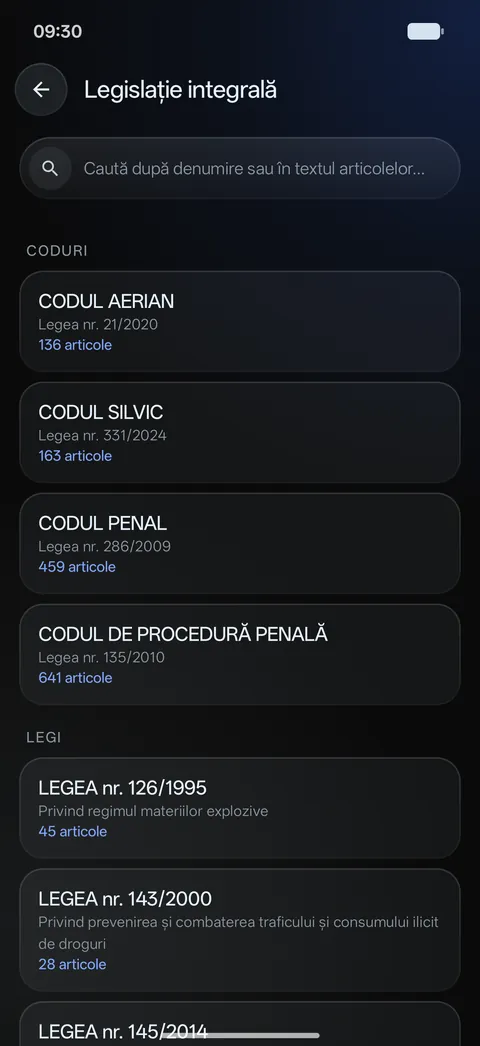
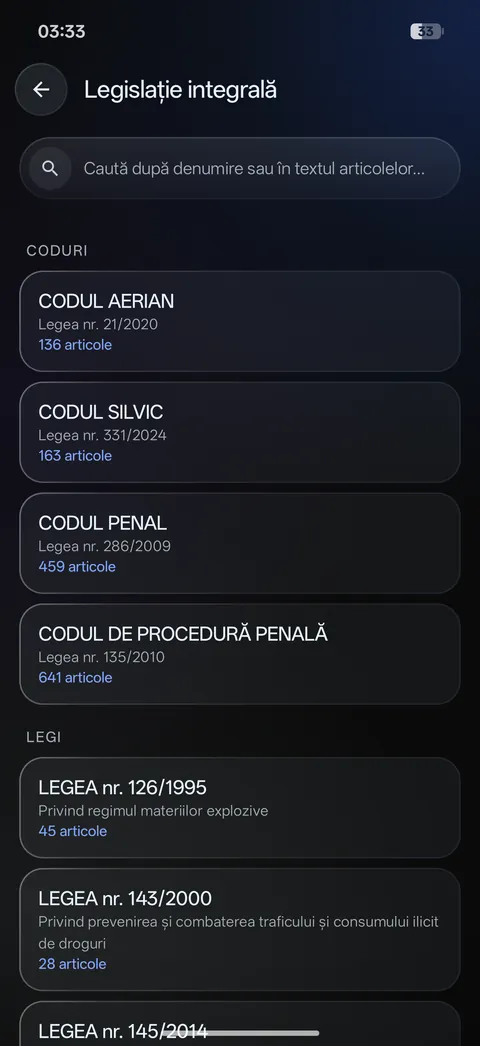
feat: capturi noi din aplicație și funcțiile noi — raportul PDF lunar, soldul explicat, programul fracționat, ghidul la câini pe teren, 33 de acte integrale
- Shiftr: titlul „Orele se calculează singure.”, secțiunea Raport PDF lunar (cu raportul real),
  „Cum se calculează soldul”, editorul cu program fracționat, rânduri noi în tabelul Gratuit/PRO.
- Capturi refăcute (ora 03:33, baterie 33%): Acasă, Legi speciale, Regim rutier (căutarea pe secțiune,
  fișa), Text integral, ghidul Câini periculoși (rase și Control pe teren).
- Legislație integrală: 33 de acte (HG 643/2020, HG 859/2021, HG 1102/2014, HG 146/2026, Legea 203/2018).

diff --git a/app/shiftr/page.jsx b/app/shiftr/page.jsx
@@ -19,12 +19,15 @@ const TYPES = [
 const ROWS = [
   ["Calendarul de ture și șabloanele", "y", "y"],
   ["Toate tipurile de tură și misiunile speciale", "y", "y"],
+  ["Program fracționat, în două intervale", "y", "y"],
   ["Norma lunii, cu sărbătorile legale", "y", "y"],
   ["Orele lucrate față de normă", "y", "y"],
   ["Partajarea calendarului cu colegii", "y", "y"],
   ["Soldul de ore suplimentare", "n", "p"],
   ["Recuperările scăzute din sold", "n", "p"],
   ["Ore adăugate manual din altă aplicație", "n", "p"],
+  ["Raportul PDF lunar", "y", "y"],
+  ["Soldul și recuperările în raportul PDF", "n", "p"],
   ["Concedii și medicale calculate automat", "n", "p"],
 ];
 const MARK = { y: ["Da", "inclus"], p: ["PRO", "inclus în PRO"], n: ["Nu", "nu e inclus"] };
@@ -39,14 +42,14 @@ export default function ShiftrPage() {
             <div className="copy">
               <ol className="crumbs" aria-label="Unde ești"><li><Link href="/">Acasă</Link></li><li aria-current="page">Shiftr</li></ol>
               <p className="eyebrow" data-r="">Shiftr · planificatorul de ture</p>
-              <h1 className="h1" data-r="">Luna se adună <span className="soft">singură.</span></h1>
+              <h1 className="h1" data-r="">Orele se calculează <span className="soft">singure.</span></h1>
               <p className="lead" data-r="">Notezi turele, iar Shiftr calculează norma, orele suplimentare și soldul după recuperări. Datele rămân pe telefon.</p>
               <div className="btns" data-r=""><MainCta /><a className="btn btn--glass" href="#calcul">Cum calculează</a></div>
             </div>
             <Stage
               front="app-shiftr-a"
               back="app-shiftr-editare"
-              backAlt="Foaia Modifică tura din Shiftr: șabloanele Zi (06:00–18:00) și Noapte (18:00–06:00), ora de început și de sfârșit, culoarea și denumirea turei."
+              backAlt="Foaia Modifică tura din Shiftr pentru 20 noiembrie: șabloanele Zi (06:00–18:00) și Noapte (18:00–06:00), apoi programul fracționat 08:00–12:00 și al doilea interval 18:00–22:00, durata 8h și alarma pusă la 07:00."
               backRight
               priority
               frontAlt="Calendarul Shiftr pentru noiembrie 2026: ture de zi (Z) și de noapte (N), zile libere, două zile de program, iar dedesubt 172h lucrate din 160h și soldul de ore suplimentare +12h."
@@ -63,7 +66,7 @@ export default function ShiftrPage() {
             <div className="sec__head">
               <p className="eyebrow" data-r="">Turele</p>
               <h2 id="types-title" className="h2" data-r="">Orice program, o literă.</h2>
-              <p className="lead" data-r="">Zi, noapte, cele trei schimburi, concediu, recuperare, liber și misiuni speciale. Șabloanele (ex. Zi 06:00–18:00, Noapte 18:00–06:00) se aplică dintr-o atingere.</p>
+              <p className="lead" data-r="">Zi, noapte, cele trei schimburi, concediu, recuperare, liber și misiuni speciale. Șabloanele (ex. Zi 06:00–18:00, Noapte 18:00–06:00) se aplică dintr-o atingere, iar o zi poate avea și program fracționat, în două intervale.</p>
             </div>
             <ul className="mods" style={{ marginTop: 0 }}>
               {TYPES.map(([k, t, c, d], i) => (
@@ -103,6 +106,45 @@ export default function ShiftrPage() {
               </div>
               <p className="fine">Patru ecrane reale din aplicație, unul pentru fiecare combinație. Calculele Shiftr sunt orientative.</p>
             </div>
+          </div>
+        </section>
+
+        <section className="sec" id="pdf" aria-labelledby="pdf-title">
+          <div className="wrap">
+            <div className="sec__head">
+              <p className="eyebrow" data-r="">Nou · raportul lunar</p>
+              <h2 id="pdf-title" className="h2" data-r="">Luna întreagă, <span className="soft">într-un PDF.</span></h2>
+              <p className="lead" data-r="">Un buton deasupra calendarului: Shiftr scoate evidența lunii, gata de printat sau de trimis. Ziua, tura, intervalele lucrate și orele, cu turele de noapte împărțite corect pe cele două zile, weekendurile și sărbătorile marcate, legenda și observațiile.</p>
+            </div>
+            <figure className="glass" data-r="scale" style={{ margin: "36px auto 0", maxWidth: 1100, padding: 10, borderRadius: 28 }}>
+              <img src="/assets/img/screens/app-shiftr-pdf-1400.webp" srcSet="/assets/img/screens/app-shiftr-pdf-800.webp 800w, /assets/img/screens/app-shiftr-pdf-1400.webp 1400w, /assets/img/screens/app-shiftr-pdf-2000.webp 2000w" sizes="(min-width: 1180px) 1080px, 94vw" width="2000" height="1413" alt="Raportul PDF Evidența turelor pentru noiembrie 2026, generat de Shiftr: norma lunii 160h, ore lucrate 164h, ore suplimentare 4h, soldul la zi 16h, ore de noapte 56h, weekend și sărbători 60h, recuperări 8h; tabelul pe zile cu tura (Z, N, L, R, P), intervalele lucrate și orele, legenda turelor și observațiile (20.11 program fracționat, 30.11 Sfântul Andrei)." loading="lazy" decoding="async" style={{ display: "block", width: "100%", height: "auto", borderRadius: 20 }} />
+            </figure>
+            <ul className="checks" data-r="" style={{ maxWidth: 820, margin: "28px auto 0" }}>
+              <li><b>Ore pe fiecare zi.</b> Doar ce cade între 00:00 și 24:00, ca pe foaia de pontaj.</li>
+              <li><b>Norma, noaptea, weekendul, sărbătorile.</b> Totalurile lunii, sus, pe carduri.</li>
+              <li><b>Soldul și recuperările</b> apar în raport în PRO.</li>
+            </ul>
+          </div>
+        </section>
+
+        <section className="sec sec--tight" aria-labelledby="sold-title">
+          <div className="wrap split">
+            <div className="copy">
+              <p className="eyebrow" data-r="">Soldul, explicat</p>
+              <h2 id="sold-title" className="h2" data-r="">Știi de unde vine <span className="soft">fiecare oră.</span></h2>
+              <p className="lead" data-r="">„Cum se calculează soldul” arată pe pași regula din Codul muncii: ce lucrezi peste normă intră în sold, se recuperează în 90 de zile cu timp liber plătit, iar ce nu recuperezi se plătește cu spor. Plus soldul tău, lună cu lună, și următorul termen de recuperare.</p>
+              <ul className="checks" data-r="">
+                <li><b>Art. 120–123 Codul muncii,</b> aplicate pe turele tale.</li>
+                <li><b>Termenul de 90 de zile</b> pentru fiecare oră, nu pentru toată luna.</li>
+              </ul>
+            </div>
+            <Stage
+              front="app-shiftr-sold"
+              frontAlt="Foaia Cum se calculează soldul din Shiftr: patru pași — pornești de la soldul adus, ce lucrezi peste normă intră în sold, le recuperezi în 90 de zile, ce nu recuperezi se plătește — apoi soldul tău: ore suplimentare noi +16h, recuperări efective 0h, sold +16h și următorul termen de recuperare, 28 decembrie 2026."
+              back="app-shiftr-a"
+              backAlt=""
+              backRight
+            />
           </div>
         </section>
 

diff --git a/app/page.jsx b/app/page.jsx
@@ -4,7 +4,7 @@ import Laurels from "@/components/Laurels";
 import PageEffects from "@/components/PageEffects";
 import { Phone, MainCta, PlayBanner } from "@/components/ui";
 
-const DESC = "JAC – Legislație și Ture: 33 de module offline, peste 3.500 de fișe, 28 de acte integrale, 6 ghiduri vizuale cu fotografii, ghidul operativ și planificatorul de ture Shiftr. Aplicație Android independentă.";
+const DESC = "JAC – Legislație și Ture: 33 de module offline, peste 3.500 de fișe, 33 de acte integrale, 6 ghiduri vizuale cu fotografii, ghidul operativ și planificatorul de ture Shiftr. Aplicație Android independentă.";
 
 export const metadata = {
   title: "JAC – Legislație și Ture | Unicul instrument legislativ care le are pe toate",
@@ -37,7 +37,7 @@ const LD = {
 /* The hero deck: six real screens. One stands at the centre for a second, then they all slide one place right to
    left (the one on the right comes to the centre, the centre one goes left), the way the old home page did it. */
 const DECK = ["app-acasa", "app-rutier-module", "app-penal-module", "app-shiftr-a", "app-ghid-capitole", "app-ghid-drone", "app-text-integral"];
-const DECK_ALT = "Ecranul Acasă din JAC: salutul „Salutare, ticuv” cu avatarul PRO încadrat de lauri aurii, cardul Programul tău („Liber azi. De Zi duminică.”, 160h din 160h), căutarea în baza locală de 3.542 de articole offline și plăcile Cod penal, Legi speciale, Regim rutier și Text integral.";
+const DECK_ALT = "Ecranul Acasă din JAC: salutul „Bună seara, ticuv” cu avatarul încadrat de lauri aurii, cardul Programul tău („Liber azi. De Zi mâine.”, tura de joi 06:00–18:00 și 164h lucrate), căutarea în baza locală de 3.542 de articole offline și plăcile Cod penal, Legi speciale, Regim rutier și Text integral";
 const deckPos = (i, n) => (i === 0 ? "center" : i === 1 ? "right" : i === n - 1 ? "left" : i === n - 2 ? "out" : "back");
 
 export default function HomePage() {
@@ -99,7 +99,7 @@ export default function HomePage() {
               <article className="chap__item" aria-labelledby="ch-fise">
                 <h2 id="ch-fise" className="chap__num"><span className="sr-only">Fișe offline: </span><span className="chap__mask"><span className="mono">3.542</span></span></h2>
                 <p className="chap__text">De fișe în telefon, fără semnal: Codul penal, CPP, rutierul și 19 legi speciale. Scrii fapta și primești încadrarea exactă.</p>
-                <p className="chap__meta mono">33 de module · 28 de acte integrale</p>
+                <p className="chap__meta mono">33 de module · 33 de acte integrale</p>
                 <Phone name="app-legi-speciale" className="chap__phone-m" sizes="70vw" alt="Lista Legi speciale din JAC: 19 pachete legislative și 1.161 de fapte, de la Legea 61/1991 (ordine și liniște publică) la Domeniul silvic (170 de fapte)." />
               </article>
               <article className="chap__item" aria-labelledby="ch-shiftr" data-shiftr2="" data-norm="160">
@@ -279,7 +279,7 @@ export default function HomePage() {
                     <tr><th scope="row">Celelalte 11 legi speciale<small>arme, droguri, pirotehnice, silvic, drone, pescuit, vânătoare, pază, 112 și altele</small></th><td className="cmp__no">—</td><td className="cmp__pro">Da</td></tr>
                     <tr><th scope="row">Codul penal, CPP și procedura operativă<small>4 module, 1.369 de articole</small></th><td className="cmp__no">—</td><td className="cmp__pro">Da</td></tr>
                     <tr><th scope="row">Regim rutier, cu amenda calculată<small>10 module, 1.011 fapte și proceduri</small></th><td className="cmp__no">—</td><td className="cmp__pro">Da</td></tr>
-                    <tr><th scope="row">Legislație integrală<small>28 de acte, în text complet</small></th><td>Da</td><td className="cmp__pro">Da</td></tr>
+                    <tr><th scope="row">Legislație integrală<small>33 de acte, în text complet</small></th><td>Da</td><td className="cmp__pro">Da</td></tr>
                     <tr><th scope="row">Căutare în toate fișele<small>din ecranul Acasă</small></th><td className="cmp__no">—</td><td className="cmp__pro">Da</td></tr>
                     <tr><th scope="row">Favorite</th><td>până la 5</td><td className="cmp__pro">nelimitat</td></tr>
                     <tr className="cmp__group"><th scope="rowgroup" colSpan="3">Pe teren</th></tr>

diff --git a/app/legislatie-penala/page.jsx b/app/legislatie-penala/page.jsx
@@ -5,7 +5,7 @@ import PageEffects from "@/components/PageEffects";
 import { FACTS as F, Stage, Chip, MainCta, CtaBand, Disclaimer } from "@/components/ui";
 
 export const metadata = {
-  title: "Codul penal, CPP integral și 28 de acte în text complet | JAC",
+  title: "Codul penal, CPP integral și 33 de acte în text complet | JAC",
   description: "Legislația penală din JAC, offline: 4 module și 1.369 de articole. Infracțiunile cu pedeapsa, competența și măsurile, partea generală, procedura operativă și Codul de procedură penală integral. Plus 28 de coduri și acte normative în text complet.",
   alternates: { canonical: "https://aplicatiajac.ro/legislatie-penala/" },
   openGraph: { title: "Codul penal și CPP integral în JAC", url: "https://aplicatiajac.ro/legislatie-penala/", siteName: "JAC", locale: "ro_RO", type: "website", images: [{ url: "https://aplicatiajac.ro/assets/img/og-jac-2026-11.jpg", width: 1200, height: 630 }] },
@@ -18,7 +18,7 @@ const ACTS = [
       ["Legea nr. 4/2008", "competiții și jocuri sportive"], ["Legea nr. 54/2012", "activitățile de picnic"], ["Legea nr. 60/1991", "adunările publice"],
       ["Legea nr. 61/1991", "ordinea și liniștea publică"], ["Legea nr. 126/1995", "regimul materiilor explozive"], ["Legea nr. 143/2000", "traficul și consumul de droguri"],
       ["Legea nr. 145/2014", "piața produselor agricole"], ["Legea nr. 171/2010", "contravențiile silvice"], ["Legea nr. 176/2024", "pescuitul și resursa acvatică vie"],
-      ["Legea nr. 194/2011", "produse cu efecte psihoactive"], ["Legea nr. 217/2003", "violența domestică"], ["Legea nr. 295/2004", "regimul armelor și munițiilor"],
+      ["Legea nr. 194/2011", "produse cu efecte psihoactive"], ["Legea nr. 203/2018", "plata amenzilor contravenționale"], ["Legea nr. 217/2003", "violența domestică"], ["Legea nr. 295/2004", "regimul armelor și munițiilor"],
       ["Legea nr. 333/2003", "paza obiectivelor, bunurilor și valorilor"], ["Legea nr. 349/2002", "consumul produselor din tutun"], ["Legea nr. 365/2002", "comerțul electronic"],
       ["Legea nr. 407/2006", "vânătoarea și fondul cinegetic"],
     ],
@@ -27,7 +27,7 @@ const ACTS = [
     g: "Ordonanțe și hotărâri", items: [
       ["OUG nr. 195/2002", "circulația pe drumurile publice"], ["HG nr. 1391/2006", "regulamentul OUG 195/2002"], ["OG nr. 2/2001", "regimul juridic al contravențiilor"],
       ["OUG nr. 34/2008", "sistemul 112"], ["OUG nr. 55/2002", "câinii periculoși sau agresivi"], ["OUG nr. 97/2005", "evidența și actele de identitate"],
-      ["HG nr. 11/2018", "hotărârea de aprobare a normelor Legii 295/2004"], ["Normele metodologice", "de aplicare a Legii 295/2004 (HG 11/2018)"],
+      ["HG nr. 11/2018", "hotărârea de aprobare a normelor Legii 295/2004"], ["HG nr. 643/2020", "dronele (regulamentele UE 2019/945 și 2019/947)"], ["HG nr. 859/2021", "autorizarea zborurilor în spațiul aerian"], ["HG nr. 1102/2014", "articolele pirotehnice"], ["HG nr. 146/2026", "salariul minim (punctul-amendă)"], ["Normele metodologice", "de aplicare a Legii 295/2004 (HG 11/2018)"],
     ],
   },
 ];
@@ -114,7 +114,7 @@ export default function PenalPage() {
               </div>
               <Stage
                 front="app-text-integral"
-                frontAlt="Legislația integrală din JAC: grupa Coduri, cu Codul aerian (Legea 21/2020, 136 de articole), Codul silvic (Legea 331/2024, 163 de articole), Codul penal (Legea 286/2009, 459 de articole) și Codul de procedură penală (Legea 135/2010)."
+                frontAlt="Legislația integrală din JAC: grupa Coduri, cu Codul aerian (Legea 21/2020, 136 de articole), Codul silvic (Legea 331/2024, 163 de articole), Codul penal (Legea 286/2009, 459 de articole), Codul de procedură penală (Legea 135/2010, 641 de articole), apoi legile, de la Legea 126/1995 și Codul de procedură penală (Legea 135/2010)."
               >
                 <Chip pos="tl" tone="blue" k="Text integral">{total} de acte</Chip>
                 <Chip pos="br" k="Căutare">în articole</Chip>

diff --git a/app/ghiduri-vizuale/page.jsx b/app/ghiduri-vizuale/page.jsx
@@ -45,11 +45,11 @@ const GUIDES = [
     chips: [["tl", "red", "Interzis la intrare", "Pirotehnice"], ["br", "", "La poartă", "8 pași"]],
   },
   {
-    id: "caini", tag: "Câini periculoși", law: "OUG 55/2002", shot: "app-ghid-caini", back: "app-ghid-caini-2", backAlt: "Catalogul vizual Câini periculoși din JAC, categoria a II-a: portretul unui Rottweiler din profil și din față, gabaritul 40–50 kg, 56–68 cm, și trăsăturile de recunoaștere.",
-    t: "Câini periculoși, pe rase.",
-    p: "Catalog vizual pe cele două categorii din OUG 55/2002: 3 rase în categoria I și 9 în categoria a II-a, fiecare cu portret uniform din profil și din față, gabaritul și trăsăturile de recunoaștere. Plus obligațiile deținătorului și sancțiunile.",
-    list: ["Categoria I, regim strict: 3 rase", "Categoria a II-a: 9 rase", "Obligații: sterilizare, asigurare RC, plăcuța „Câine periculos”", "Metișii: asimilarea morfologică, pe trăsăturile dominante"],
-    alt: "Catalogul vizual Câini periculoși din JAC (OUG 55/2002): portretul din profil și din față al unui Pit Bull, categoria I, cu gabaritul, trăsăturile de recunoaștere și nota despre asimilarea morfologică a metișilor.",
+    id: "caini", tag: "Câini periculoși", law: "OUG 55/2002", shot: "app-ghid-caini", back: "app-ghid-caini-2", backAlt: "Ghidul Câini periculoși din JAC, tab-ul Control pe teren: situația „Câine din listă, la plimbare” în cinci pași, fiecare cu articolul din OUG 55/2002, și concluzia — fără botniță sau lesă, 1.500–3.000 lei.",
+    t: "Câini periculoși: rase, acte, agresivi.",
+    p: "Catalog vizual pe cele două categorii din OUG 55/2002 — 3 rase în categoria I și 9 în categoria a II-a, cu portret, gabarit și trăsături — plus ce faci pe teren: situații reale pas cu pas, ce dovedește fiecare act arătat de proprietar, cum judeci un metis și regimul câinelui agresiv, de orice rasă.",
+    list: ["Control pe teren: câine din listă, „e metis”, a mușcat, lăsat liber, lupte", "Acte: pedigree FCI și adeverința AChR dovedesc rasa; carnetul nu", "Câini agresivi (art. 2): orice rasă, cu botniță, lesă și plăcuță", "Fișa completă a sancțiunilor, art. 18–19 și infracțiunile art. 12–14"],
+    alt: "Catalogul vizual Câini periculoși din JAC (OUG 55/2002): portretul din profil și din față al unui Pit Bull, categoria I, cu gabaritul și trăsăturile de recunoaștere; deasupra, sancțiunile categoriei și butonul spre controlul pe teren.",
     chips: [["tl", "red", "Categoria I", "Pit Bull"], ["br", "", "Rase", "3 + 9"]],
   },
 ];
@@ -78,7 +78,7 @@ export default function GhiduriPage() {
             <Stage
               front="app-ghid-droguri"
               back="app-ghid-caini"
-              backAlt="Catalogul vizual Câini periculoși din JAC (OUG 55/2002): portretul din profil și din față al unui Pit Bull, categoria I, cu gabaritul, trăsăturile de recunoaștere și nota despre asimilarea morfologică a metișilor."
+              backAlt="Catalogul vizual Câini periculoși din JAC (OUG 55/2002): portretul din profil și din față al unui Pit Bull, categoria I, cu gabaritul și trăsăturile de recunoaștere; deasupra, sancțiunile categoriei și butonul spre controlul pe teren."
               backRight
               priority
               frontAlt="Ghidul Droguri din JAC: fișa Cannabis cu fotografia probei și modelul de descriere „În procesul-verbal”."

diff --git a/app/legislatie-rutiera/page.jsx b/app/legislatie-rutiera/page.jsx
@@ -49,7 +49,7 @@ export default function RutierPage() {
             <Stage
               front="app-rutier-module"
               back="app-rutier-cautare"
-              backAlt="Căutarea „telefon” în Codul rutier din JAC: 3 articole găsite din 541, cu fișa pentru folosirea telefonului fără mâini libere, clasa a III-a, 6–8 puncte-amendă."
+              backAlt="Căutarea „telefon” în toată secțiunea Regim rutier din JAC: 10 fapte găsite, prima fiind folosirea telefonului fără mâini libere de către conducătorul auto, clasa a III-a, 6–8 puncte-amendă, apoi aceeași faptă pentru biciclete și trotinete electrice."
               backRight
               priority
               frontAlt="Lista Regim rutier din JAC: 10 module și 1.011 fapte și proceduri. Sus, valoarea punctului-amendă de 216,25 lei, valabilă de la 1 iulie 2026; apoi Codul rutier (541 de fapte), Proceduri rutiere (31), Legea 38/2003 (71), OUG 49/2019 (20), Legea 226/2023 (17), HG 1317/2023 (173), OG 43/1997 (63) și OG 37/2007 (91)."

diff --git a/app/legi-speciale/page.jsx b/app/legi-speciale/page.jsx
@@ -51,7 +51,7 @@ export default function LegiSpecialePage() {
             <Stage
               front="app-legi-speciale"
               back="app-ghid-caini"
-              backAlt="Catalogul vizual Câini periculoși din JAC (OUG 55/2002): portretul din profil și din față al unui Pit Bull, categoria I, cu gabaritul, trăsăturile de recunoaștere și nota despre asimilarea morfologică a metișilor."
+              backAlt="Catalogul vizual Câini periculoși din JAC (OUG 55/2002): portretul din profil și din față al unui Pit Bull, categoria I, cu gabaritul și trăsăturile de recunoaștere; deasupra, sancțiunile categoriei și butonul spre controlul pe teren."
               backRight
               priority
               frontAlt="Lista Legi speciale din JAC: 19 pachete legislative și 1.161 de fapte, de la Legea 61/1991 (ordine și liniște publică, 44 de fapte), Legea 60/1991, Legea 4/2008, OUG 55/2002, Legea 349/2002, Legea 217/2003, Legea 54/2012 și OUG 97/2005 la Domeniul silvic (170 de fapte)."
